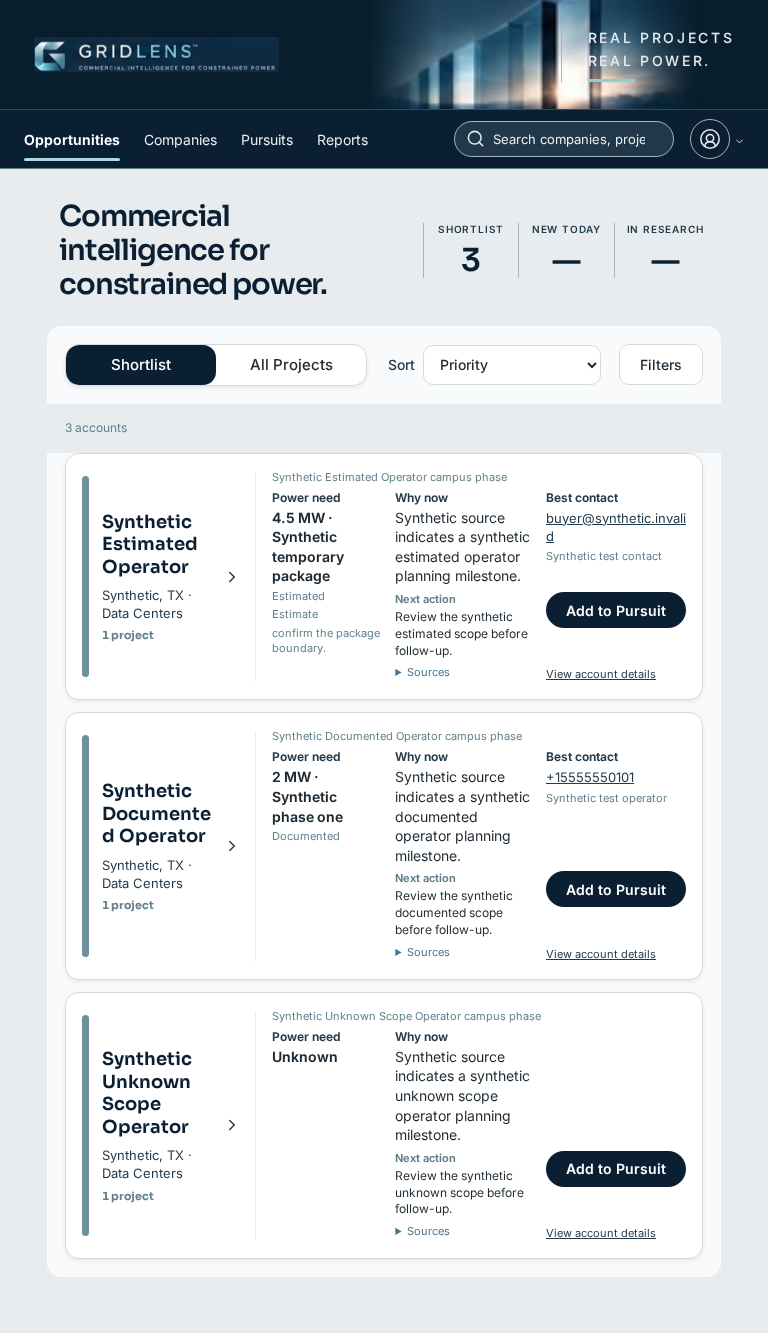
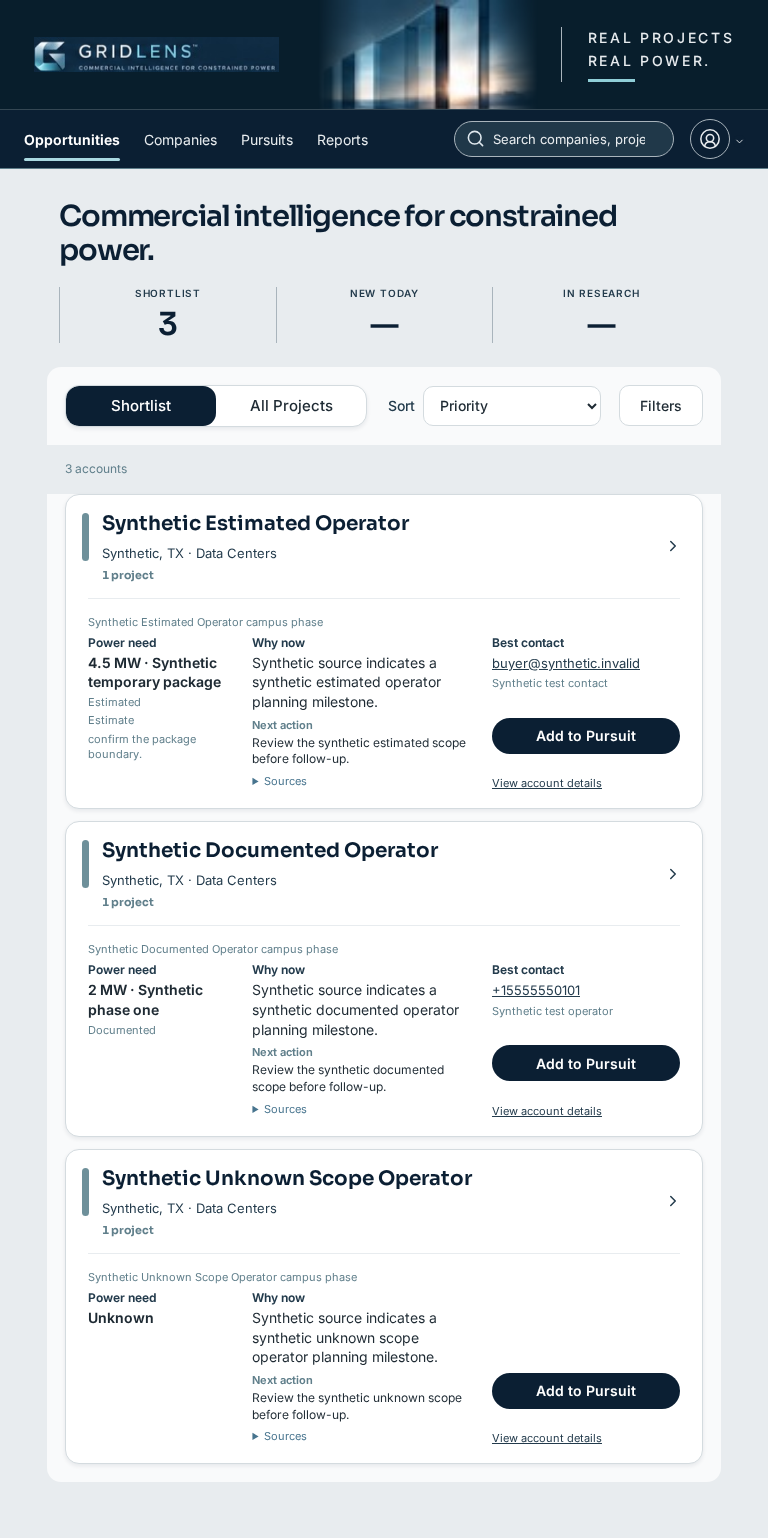
Close reviewed search and timing issues and refine tablet accessibility

diff --git a/web/src/features/workspace/ProjectResults.tsx b/web/src/features/workspace/ProjectResults.tsx
@@ -353,7 +353,7 @@ export function ProjectResults({ selectedNeedId, accountContextStatus = 'valid',
         <span className="customer-group-count">{displayedGroup.project_count} {displayedGroup.project_count === 1 ? 'project' : 'projects'}</span>
         <svg className="customer-group-chevron" viewBox="0 0 24 24" fill="none" aria-hidden="true"><path d="m9 18 6-6-6-6" stroke="currentColor" strokeWidth="2" strokeLinecap="round" strokeLinejoin="round"/></svg>
       </button></h2>
-      {displayedGroup.featured_project && <div className="customer-group-featured premium-account-detail"><p className="premium-featured-project">{displayedGroup.featured_project.name}</p>{displayedGroup.featured_project.commercial_brief ? <CommercialBriefSummary project={displayedGroup.featured_project}/> : <>{(!displayedGroup.featured_project.power_summary || ['supported_gap', 'unknown'].includes(displayedGroup.featured_project.power_summary_kind ?? 'unknown')) && <div className="customer-brief-claim premium-power"><strong>Power need</strong><p>Unknown</p></div>}{displayedGroup.featured_project.power_summary && displayedGroup.featured_project.power_summary_kind !== 'supported_gap' && displayedGroup.featured_project.power_summary_kind !== 'unknown' && <div className="customer-brief-claim premium-power"><strong>Power need</strong><p>{displayedGroup.featured_project.power_summary}</p>{displayedGroup.featured_project.power_amount_class && displayedGroup.featured_project.power_amount_class !== 'unknown' && <small>{humanizeBriefStatus(displayedGroup.featured_project.power_amount_class)}</small>}</div>}{displayedGroup.featured_project.event && /energiz|commission|in.?service/i.test(`${displayedGroup.featured_project.event.kind} ${displayedGroup.featured_project.event.label}`) && <div className="customer-brief-claim premium-energization"><strong>Energization</strong><p>{displayedGroup.featured_project.event.label}{displayedGroup.featured_project.event.date ? ` · ${displayedGroup.featured_project.event.date}` : ''}</p></div>}{displayedGroup.featured_project.shortlist_assessment?.why_now && <div className="customer-brief-claim premium-why"><strong>Why now</strong><p>{displayedGroup.featured_project.shortlist_assessment.why_now}</p></div>}{displayedGroup.featured_project.shortlist_assessment?.next_step && <div className="customer-brief-claim premium-next-action"><strong>Next action</strong><p>{displayedGroup.featured_project.shortlist_assessment.next_step}</p></div>}<FeaturedContact project={displayedGroup.featured_project} contactProject={accountContactProject}/></>}{group.pursued_eligible_need_count != null && group.eligible_need_count != null && group.pursued_eligible_need_count > 0 && <small>{group.pursued_eligible_need_count === group.eligible_need_count ? `All ${group.eligible_need_count} opportunities in Pursuits` : `${group.pursued_eligible_need_count} of ${group.eligible_need_count} opportunities in Pursuits`}</small>}{group.eligible_need_count === 1 && displayedGroup.featured_project.representative_need_id && <AddToPursuit key={displayedGroup.featured_project.representative_need_id} needId={displayedGroup.featured_project.representative_need_id} deferLookup><span className="sr-only">for {displayedGroup.featured_project.name}</span></AddToPursuit>}{projectSpecificMatch(group, search) && <button type="button" onClick={() => openAccount(group.id, group.matched_project_id, group.matched_need_id)}>View account with matching opportunity</button>}<button type="button" onClick={() => openAccount(group.id, projectSpecificMatch(group, search) ? group.matched_project_id : null, projectSpecificMatch(group, search) ? group.matched_need_id : null)}>{(group.eligible_need_count ?? 0) > 1 ? `Choose opportunity` : `View account details`}</button></div>}
+      {displayedGroup.featured_project && <div className="customer-group-featured premium-account-detail"><p className="premium-featured-project">{displayedGroup.featured_project.name}</p>{displayedGroup.featured_project.commercial_brief ? <CommercialBriefSummary project={displayedGroup.featured_project}/> : <>{(!displayedGroup.featured_project.power_summary || ['supported_gap', 'unknown'].includes(displayedGroup.featured_project.power_summary_kind ?? 'unknown')) && <div className="customer-brief-claim premium-power"><strong>Power need</strong><p>Unknown</p></div>}{displayedGroup.featured_project.power_summary && displayedGroup.featured_project.power_summary_kind !== 'supported_gap' && displayedGroup.featured_project.power_summary_kind !== 'unknown' && <div className="customer-brief-claim premium-power"><strong>Power need</strong><p>{displayedGroup.featured_project.power_summary}</p>{displayedGroup.featured_project.power_amount_class && displayedGroup.featured_project.power_amount_class !== 'unknown' && <small>{humanizeBriefStatus(displayedGroup.featured_project.power_amount_class)}</small>}</div>}{displayedGroup.featured_project.event && isEnergizationEvent(displayedGroup.featured_project.event) && <div className="customer-brief-claim premium-energization"><strong>Energization</strong><p>{displayedGroup.featured_project.event.label}{displayedGroup.featured_project.event.date ? ` · ${displayedGroup.featured_project.event.date}` : ''}</p></div>}{displayedGroup.featured_project.shortlist_assessment?.why_now && <div className="customer-brief-claim premium-why"><strong>Why now</strong><p>{displayedGroup.featured_project.shortlist_assessment.why_now}</p></div>}{displayedGroup.featured_project.shortlist_assessment?.next_step && <div className="customer-brief-claim premium-next-action"><strong>Next action</strong><p>{displayedGroup.featured_project.shortlist_assessment.next_step}</p></div>}<FeaturedContact project={displayedGroup.featured_project} contactProject={accountContactProject}/></>}{group.pursued_eligible_need_count != null && group.eligible_need_count != null && group.pursued_eligible_need_count > 0 && <small>{group.pursued_eligible_need_count === group.eligible_need_count ? `All ${group.eligible_need_count} opportunities in Pursuits` : `${group.pursued_eligible_need_count} of ${group.eligible_need_count} opportunities in Pursuits`}</small>}{group.eligible_need_count === 1 && displayedGroup.featured_project.representative_need_id && <AddToPursuit key={displayedGroup.featured_project.representative_need_id} needId={displayedGroup.featured_project.representative_need_id} deferLookup><span className="sr-only">for {displayedGroup.featured_project.name}</span></AddToPursuit>}{projectSpecificMatch(group, search) && <button type="button" onClick={() => openAccount(group.id, group.matched_project_id, group.matched_need_id)}>View account with matching opportunity</button>}<button type="button" onClick={() => openAccount(group.id, projectSpecificMatch(group, search) ? group.matched_project_id : null, projectSpecificMatch(group, search) ? group.matched_need_id : null)}>{(group.eligible_need_count ?? 0) > 1 ? `Choose opportunity` : `View account details`}</button></div>}
       {canUseChildren && childPageCurrent && expanded[group.id] && <div className="customer-group-projects">
         {childNotices[group.id] && <p role="status" className="project-results-notice">{childNotices[group.id]}</p>}
         {childErrors[group.id] && <p role="alert">{childErrors[group.id]} <button type="button" onClick={() => loadGroupProjects(group, 0)}>Reload projects</button></p>}
@@ -423,7 +423,7 @@ function CommercialBriefSummary({ project }: { project: ProjectResult }) {
   return <div className="customer-commercial-brief">
     {!showPowerNeed && <div className="customer-brief-claim premium-power"><strong>Power need</strong><p>Unknown</p></div>}
     {showPowerNeed && <div className="customer-brief-claim premium-power"><strong>Power need</strong><p>{powerText}</p>{hasDocumentedAmount && <small>{humanizeBriefStatus(brief.power_need.amount_class)}</small>}{powerLimitations.map((limitation, index) => <small key={`${index}:${limitation}`}>{limitation}</small>)}</div>}
-    {project.event && /energiz|commission|in.?service/i.test(`${project.event.kind} ${project.event.label}`) && <div className="customer-brief-claim premium-energization"><strong>Energization</strong><p>{project.event.label}{project.event.date ? ` · ${project.event.date}` : ''}</p></div>}
+    {project.event && isEnergizationEvent(project.event) && <div className="customer-brief-claim premium-energization"><strong>Energization</strong><p>{project.event.label}{project.event.date ? ` · ${project.event.date}` : ''}</p></div>}
     <div className="customer-brief-claim premium-why"><strong>Why now</strong><p>{brief.why_now.text ?? 'Why now is not established from current evidence.'}</p></div>
     {best && <div className="customer-group-contact" role="group" aria-label="Best contact"><strong>Best contact</strong>{contactHref && <a href={contactHref} target={best.kind === 'contact' ? '_blank' : undefined} rel={best.kind === 'contact' ? 'noreferrer' : undefined} aria-label={`${best.kind === 'call' ? 'Call' : best.kind === 'email' ? 'Email' : 'Contact'} ${best.contact}`}>{best.kind === 'call' || best.kind === 'email' ? contactHref.replace(/^(?:tel:|mailto:)/i, '') : best.contact}</a>}<small>{best.contact}</small></div>}
     <div className="customer-brief-claim premium-next-action"><strong>Next action</strong><p>{brief.next_action.text}</p></div>
@@ -450,4 +450,10 @@ function briefPowerAmount(value: string, unit: string | null): string {
 
 function humanizeBriefStatus(value: string): string {
   return value.replaceAll('_', ' ').replace(/\b[a-z]/g, character => character.toUpperCase())
+}
+
+/** Only explicit lifecycle types establish energization; regulator names and permits do not. */
+function isEnergizationEvent(event: NonNullable<ProjectResult['event']>): boolean {
+  const kind = event.kind.trim().toLowerCase().replace(/[\s-]+/g, '_')
+  return ['energization', 'energization_planned', 'energization_expected', 'energized', 'commissioning', 'commissioning_planned', 'commissioning_expected', 'in_service', 'in_service_planned'].includes(kind)
 }

diff --git a/web/src/features/workspace/premium-opportunities.css b/web/src/features/workspace/premium-opportunities.css
@@ -21,7 +21,7 @@
 .premium-filters .premium-filter-search { grid-column:1/-1; }
 .premium-filters input,.premium-filters select { width:100%; min-height:40px; min-width:0; padding:8px; border:1px solid #A9B4BC; border-radius:6px; background:white; color:#233B4C; font:14px Inter,sans-serif; }
 .premium-export { min-height:40px; padding:8px; border:1px solid #A9B4BC; border-radius:6px; background:white; color:#233B4C; font:12px Inter,sans-serif; cursor:pointer; }
-.premium-opportunities .project-results-count { margin:-10px 18px 0; color:#607F8B; font-size:12px; }
+.premium-opportunities .project-results-count { margin:-10px 18px 0; color:#233B4C; font-size:12px; }
 .premium-account-list { display:grid; gap:12px; padding:0 18px 18px; margin-top:-8px; background:#ffffffb8; border-radius:0 0 14px 14px; }
 .premium-account-card { position:relative; display:grid; grid-template-columns:minmax(220px,26%) minmax(0,1fr); align-items:stretch; min-width:0; border:1px solid #d4dbdf; border-radius:14px; background:white; box-shadow:0 2px 4px #0B1F3314; }
 .premium-account-card::before { content:''; position:absolute; top:22px; bottom:22px; left:16px; width:7px; border-radius:5px; background:#6E909A; }
@@ -30,32 +30,32 @@
 .premium-account-card .customer-group-toggle>span:first-child { display:grid; gap:8px; min-width:0; }
 .premium-account-card .customer-group-name { font:650 20px/1.25 Sora,sans-serif; overflow-wrap:anywhere; }
 .premium-account-card .customer-group-toggle small { color:#233B4C; font:400 13px/1.4 Inter,sans-serif; }
-.premium-account-card .customer-group-count { grid-column:1; grid-row:2; justify-self:start; font-size:11px; color:#607F8B; }
+.premium-account-card .customer-group-count { grid-column:1; grid-row:2; justify-self:start; font-size:11px; color:#233B4C; }
 .premium-account-card .customer-group-chevron { grid-column:2; grid-row:1/span 2; }
 .premium-account-detail.customer-group-featured { display:grid; grid-template-columns:minmax(105px,.8fr) minmax(0,1.5fr) minmax(175px,1.2fr); align-content:center; align-items:start; gap:9px 20px; min-width:0; padding:18px 22px; border:0; font:13px Inter,sans-serif; }
-.premium-account-detail>.premium-featured-project { grid-column:1/-1; margin:0; color:#607F8B; font-size:11px; }
+.premium-account-detail>.premium-featured-project { grid-column:1/-1; margin:0; color:#233B4C; font-size:11px; }
 .premium-account-detail .customer-commercial-brief { display:contents; }
 .premium-account-detail .customer-brief-claim { display:grid; align-content:start; gap:3px; min-width:0; }
 .premium-account-detail .customer-brief-claim strong,.premium-account-detail .customer-group-contact>strong { color:#233B4C; font-size:12px; font-weight:650; }
 .premium-account-detail .customer-brief-claim p { grid-column:auto; margin:0; color:#1E2A33; font-size:14px; line-height:1.4; overflow-wrap:anywhere; }
-.premium-account-detail .customer-brief-claim small { color:#607F8B; font-size:11px; line-height:1.4; }
+.premium-account-detail .customer-brief-claim small { color:#233B4C; font-size:11px; line-height:1.4; }
 .premium-account-detail .premium-power { grid-column:1; grid-row:2; }
 .premium-account-detail .premium-power p { font-weight:650; }
 .premium-account-detail .premium-why { grid-column:2; grid-row:2; }
 .premium-account-detail .premium-next-action { grid-column:2; grid-row:3; }
-.premium-account-detail .premium-next-action strong { font-size:11px; color:#607F8B; }
+.premium-account-detail .premium-next-action strong { font-size:11px; color:#233B4C; }
 .premium-account-detail .premium-next-action p { font-size:12px; }
 .premium-account-detail .premium-energization { grid-column:1; grid-row:3; }
 .premium-account-detail .customer-group-contact { display:grid; grid-column:3; grid-row:2; align-content:start; gap:4px; min-width:0; font-size:13px; }
 .premium-account-detail .customer-group-contact a { color:#233B4C; overflow-wrap:anywhere; line-height:1.4; }
-.premium-account-detail .customer-group-contact small { color:#607F8B; font-size:11px; }
+.premium-account-detail .customer-group-contact small { color:#233B4C; font-size:11px; }
 .premium-account-detail .customer-brief-sources { grid-column:1; grid-row:4; font-size:11px; }
 .premium-account-detail .customer-brief-sources[open] { grid-column:1/-1; }
 .premium-account-detail .customer-brief-sources p { margin:6px 0; font-size:12px; }
 .premium-account-detail>.cod-actions { grid-column:3; grid-row:3; display:flex; flex-wrap:wrap; align-items:center; gap:4px; min-width:0; }
 .premium-account-detail>.cod-actions .cod-action-primary { display:block; width:100%; min-height:36px; padding:8px 14px; border:0; border-radius:20px; background:#0B1F33; color:white; font:600 14px Inter,sans-serif; text-align:center; }
 .premium-account-detail>button { grid-column:3; grid-row:4; justify-self:start; padding:2px 0; border:0; background:transparent; color:#233B4C; font-size:11px; text-decoration:underline; }
-.premium-account-detail>small { grid-column:3; color:#607F8B; font-size:11px; }
+.premium-account-detail>small { grid-column:3; color:#233B4C; font-size:11px; }
 .premium-account-card>.customer-group-projects { grid-column:1/-1; }
 .premium-opportunities :is(button,a,summary,select,input):focus-visible { outline:2px solid #607F8B; outline-offset:3px; }
 @media(max-width:1100px) {
@@ -122,4 +122,15 @@
 /* Retained project-detail pane reserves the taller masthead above its existing KPI row. */
 @media(min-width:1051px) {
   .canonical-workspace-main .cod-panel.cod-panel:has(.cod-overview-body) { height:calc(100dvh - 310px); max-height:calc(100dvh - 310px); }
+}
+@media(min-width:761px) and (max-width:1000px) {
+  .premium-opportunities-intro { flex-direction:column; align-items:stretch; gap:20px; }
+  .premium-opportunities-intro h1 { max-width:30ch; }
+  .premium-metrics { flex:initial; width:100%; }
+  .premium-account-card { grid-template-columns:minmax(0,1fr); }
+  .premium-account-card::before { top:18px; bottom:auto; height:48px; }
+  .premium-account-card .customer-group-heading { margin:0 22px; padding:16px 0; border-right:0; border-bottom:1px solid #E8ECEF; }
+  .premium-account-card .customer-group-toggle { padding:0 0 0 14px; }
+  .premium-account-card .customer-group-name { font-size:20px; }
+  .premium-account-detail.customer-group-featured { grid-template-columns:minmax(130px,.8fr) minmax(160px,1.2fr) minmax(160px,1fr); padding:16px 22px; }
 }

diff --git a/web/tests/premium_ui.spec.ts b/web/tests/premium_ui.spec.ts
@@ -7,7 +7,7 @@ import { mockDemandSummary } from './mock-demand-summary'
 const screenshotDir = resolve(dirname(fileURLToPath(import.meta.url)), '../../docs/validation/premium-ui-20261111')
 
 // Every response in this test is synthetic and visibly identified as such.
-async function installSyntheticApi(page: import('@playwright/test').Page) {
+async function installSyntheticApi(page: import('@playwright/test').Page, event: { kind: string; label: string; date: string } | null = null) {
   const searchQueries: string[] = []
   await mockDemandSummary(page)
   await page.route(url => new URL(url).pathname.startsWith('/api/'), route => {
@@ -43,7 +43,7 @@ async function installSyntheticApi(page: import('@playwright/test').Page) {
             customer_identity_id: `synthetic-company-${index}`, location: 'Synthetic, TX', sector: 'data_centers', asset_type: 'data_center', priority_score: null,
             representative_need_id: needId, need_count: 1,
             needs: [{ id: needId, project_id: projectId, name: `${name} campus phase`, activity: 'construction', tier: 'Prospect', commercial_brief: brief(kind, name) }],
-            eligible_need_ids: [needId], event: { kind: 'construction', label: 'Synthetic planned construction', date: '2026-12-01', source: 'https://example.invalid/synthetic' },
+            eligible_need_ids: [needId], event,
             contact: [], commercial_brief: brief(kind, name), power_summary: null, power_summary_kind: kind === 'unknown' ? 'unknown' : 'activity_requirement', next_action: null,
             shortlist_assessment: { eligible: true, reasons: [], evidence_refs: [], why_now: 'Synthetic fixture for browser acceptance.', next_step: 'Review synthetic source.' }, updated_at: null,
           },
@@ -117,6 +117,10 @@ test('premium shell holds its desktop and phone layout and keeps search and acco
   await page.getByRole('button', { name: 'Account menu' }).click()
   const accountOptions = page.getByRole('region', { name: 'Account options' }).or(page.locator('.workspace-account__menu'))
   await expect(accountOptions).toBeVisible()
+  await page.keyboard.press('Escape')
+  await expect(accountOptions).toBeHidden()
+  await expect(page.getByRole('button', { name: 'Account menu' })).toBeFocused()
+  await page.getByRole('button', { name: 'Account menu' }).click()
   await expect(accountOptions).toContainText('Build SHA')
   const sha = (await accountOptions.locator('dd').nth(2).innerText()).trim()
   expect(sha).toMatch(/^[0-9a-f]{40}$/i)
@@ -181,9 +185,47 @@ test('premium shell holds its desktop and phone layout and keeps search and acco
   await search.fill('synthetic')
   await expect.poll(() => searchQueries).toContain('synthetic')
   await expect(page.getByRole('region', { name: 'Search results' }).getByRole('button', { name: /Synthetic Estimated Operator/ })).toBeVisible()
+  await page.getByRole('button', { name: 'Close search' }).click()
+  await expect(search).toBeHidden()
+  await expect(page.getByRole('region', { name: 'Search results' })).toHaveCount(0)
+  await page.getByRole('button', { name: 'Open search' }).click()
+  await expect(search).toBeFocused()
+  await expect(page.getByRole('region', { name: 'Search results' })).toBeVisible()
   await page.keyboard.press('Escape')
   await expect(page.getByRole('button', { name: 'Open search' })).toBeFocused()
   await expect(search).toBeHidden()
   expect(await page.evaluate(() => document.documentElement.scrollWidth <= window.innerWidth)).toBeTruthy()
   expect(await header.evaluate(el => el.getBoundingClientRect().width <= window.innerWidth)).toBeTruthy()
+})
+
+for (const event of [
+  { kind: 'commissioning_planned', label: 'Commissioning expected', date: '2027-06-01', supported: true },
+  { kind: 'decommissioning', label: 'Site decommissioning scheduled', date: '2027-06-01', supported: false },
+  { kind: 'permit_issued', label: 'Railroad Commission permit issued', date: '2027-06-01', supported: false },
+  { kind: 'planning', label: 'Application mentions energization and commissioning', date: '2027-06-01', supported: false },
+]) {
+  test(`energization requires a supported lifecycle type: ${event.kind}`, async ({ page }) => {
+    await installSyntheticApi(page, event)
+    await page.goto('/?view=workspace&groupBrowse=1')
+    await expect(page.locator('.premium-account-card')).toHaveCount(3)
+    const timing = page.locator('.premium-account-card').first().locator('.premium-energization')
+    if (event.supported) {
+      await expect(timing).toContainText('Commissioning expected')
+      await expect(timing).toContainText('2027-06-01')
+    } else await expect(timing).toHaveCount(0)
+  })
+}
+
+test('account actions remain reachable in a short landscape viewport', async ({ page }) => {
+  await installSyntheticApi(page)
+  await page.setViewportSize({ width: 844, height: 390 })
+  await page.goto('/?view=workspace&groupBrowse=1')
+  await page.getByRole('button', { name: 'Account menu' }).click()
+  const menu = page.locator('.workspace-account__menu')
+  const signOut = menu.getByRole('button', { name: 'Sign out', exact: true })
+  await signOut.scrollIntoViewIfNeeded()
+  const bounds = await signOut.boundingBox()
+  expect(bounds).not.toBeNull()
+  expect(bounds!.y).toBeGreaterThanOrEqual(0)
+  expect(bounds!.y + bounds!.height).toBeLessThanOrEqual(390)
 })

diff --git a/web/src/components/workspace-account.css b/web/src/components/workspace-account.css
@@ -1,22 +1,22 @@
 .workspace-account { position: relative; display: inline-flex; }
 .workspace-account__trigger { position: relative; display: grid; place-items: center; width: 36px; height: 36px; padding: 0; border: 1px solid #a9b4bc; border-radius: 50%; color: #233b4c; background: #fff; cursor: pointer; }
-.workspace-account__chevron { position: absolute; right: -5px; bottom: -2px; padding: 1px; border-radius: 50%; color: #607f8b; background: #fff; }
+.workspace-account__chevron { position: absolute; right: -5px; bottom: -2px; padding: 1px; border-radius: 50%; color: #233b4c; background: #fff; }
 .workspace-account__trigger:hover, .workspace-account__trigger:focus-visible { background: #e8ecef; outline: 2px solid #6e909a; outline-offset: 2px; }
 .workspace-account__menu { position: absolute; z-index: 40; top: calc(100% + 8px); right: 0; width: 248px; padding: 7px; border: 1px solid #a9b4bc; border-radius: 9px; background: white; box-shadow: 0 10px 30px #0b1f3324; }
-.workspace-account__identity { padding: 9px 10px; color: #607f8b; font-size: 12px; }
+.workspace-account__identity { padding: 9px 10px; color: #233b4c; font-size: 12px; }
 .workspace-account__menu > button { display: block; width: 100%; padding: 9px 10px; border: 0; border-radius: 5px; color: #1e2a33; text-align: left; background: transparent; cursor: pointer; font: inherit; font-size: 13px; }
 .workspace-account__menu > button:hover, .workspace-account__menu > button:focus-visible { background: #e8ecef; outline: none; }
 .workspace-account__menu > .workspace-account__signout { color: #9f2727; }
 .workspace-account__separator { height: 1px; margin: 5px 3px; background: #e8ecef; }
-.workspace-account__build { margin: 6px 9px; color: #607f8b; font-size: 11px; }
+.workspace-account__build { margin: 6px 9px; color: #233b4c; font-size: 11px; }
 .workspace-account__build div { display: flex; justify-content: space-between; gap: 8px; padding: 2px 0; }
 .workspace-account__build dt { font-weight: 500; }
 .workspace-account__build dd { margin: 0; text-align: right; overflow-wrap: anywhere; }
 .workspace-account__dialog { position: fixed; inset: 0; width: min(440px, calc(100% - 40px)); max-width: 440px; margin: auto; padding: 24px; border: 0; border-radius: 12px; color: #1e2a33; background: white; box-shadow: 0 20px 60px #0b1f3340; }
 .workspace-account__dialog::backdrop { background: #0b1f3366; }
 .workspace-account__dialog h2 { margin: 0 36px 12px 0; font-size: 19px; }
-.workspace-account__dialog p { margin: 0; color: #607f8b; font-size: 14px; line-height: 1.55; }
-.workspace-account__close { position: absolute; top: 12px; right: 12px; width: 32px; height: 32px; border: 0; border-radius: 6px; color: #607f8b; background: transparent; cursor: pointer; font-size: 24px; }
+.workspace-account__dialog p { margin: 0; color: #233b4c; font-size: 14px; line-height: 1.55; }
+.workspace-account__close { position: absolute; top: 12px; right: 12px; width: 32px; height: 32px; border: 0; border-radius: 6px; color: #233b4c; background: transparent; cursor: pointer; font-size: 24px; }
 .workspace-account__preference { display: flex; align-items: center; gap: 9px; margin: 18px 0 12px; font-size: 14px; }
 .workspace-account__preference input { width: 16px; height: 16px; }
 @media (prefers-reduced-motion: reduce) { .workspace-account *, .workspace-account *::before, .workspace-account *::after { scroll-behavior: auto !important; animation-duration: .01ms !important; animation-iteration-count: 1 !important; transition-duration: .01ms !important; } }
@@ -27,3 +27,5 @@
 .workspace-account__dialog h2 { font-family: Sora, sans-serif; }
 .gl3-reduce-motion *, .gl3-reduce-motion *::before, .gl3-reduce-motion *::after { scroll-behavior: auto !important; animation-duration: .01ms !important; animation-iteration-count: 1 !important; transition-duration: .01ms !important; }
 @media(max-width:760px) { .workspace-account__trigger, .workspace-account__close { min-width:44px; min-height:44px; } .canonical-header .workspace-account__trigger { width:44px; height:44px; } .canonical-header .workspace-account { margin-right:8px; } .canonical-header .workspace-account__chevron { right:-12px; bottom:12px; } }
+.workspace-account__menu { max-height:calc(100dvh - 176px); overflow-y:auto; overscroll-behavior:contain; }
+@media(max-width:760px) { .workspace-account__menu { max-height:calc(100dvh - 82px); } }

diff --git a/web/tests/workspace.spec.ts b/web/tests/workspace.spec.ts
@@ -367,7 +367,33 @@ test('mobile selected detail keeps the compact header and clear return', async (
   await expect(action).toBeInViewport()
   await expect(action.getByRole('button', { name: 'Add to Pursuit' })).toBeVisible()
   await expect(page.locator('.canonical-header .global-search label > span')).toBeHidden()
-  expect(await page.locator('.canonical-header__brand').evaluate(node => getComputedStyle(node).width)).toBe('143px')
+  const header = page.locator('.canonical-header')
+  const brand = page.locator('.canonical-header__brand')
+  const brandArt = page.locator('.canonical-header__brand-art')
+  const headerBounds = await header.boundingBox()
+  const brandBounds = await brand.boundingBox()
+  const logo = await brandArt.evaluate(node => {
+    const image = node as HTMLImageElement
+    const bounds = image.getBoundingClientRect()
+    return { x: bounds.x, y: bounds.y, width: bounds.width, height: bounds.height,
+      naturalWidth: image.naturalWidth, naturalHeight: image.naturalHeight,
+      objectFit: getComputedStyle(image).objectFit }
+  })
+  expect(headerBounds).not.toBeNull()
+  expect(brandBounds).not.toBeNull()
+  expect(brandBounds!.width).toBeGreaterThan(143)
+  expect(brandBounds!.x).toBeGreaterThanOrEqual(headerBounds!.x)
+  expect(brandBounds!.x + brandBounds!.width).toBeLessThanOrEqual(Math.min(headerBounds!.x + headerBounds!.width, 390))
+  expect(brandBounds!.y).toBeGreaterThanOrEqual(headerBounds!.y)
+  expect(brandBounds!.y + brandBounds!.height).toBeLessThanOrEqual(headerBounds!.y + headerBounds!.height)
+  expect(logo.width).toBeGreaterThan(143)
+  expect(logo.x).toBeGreaterThanOrEqual(headerBounds!.x)
+  expect(logo.x + logo.width).toBeLessThanOrEqual(Math.min(headerBounds!.x + headerBounds!.width, 390))
+  expect(logo.y).toBeGreaterThanOrEqual(headerBounds!.y)
+  expect(logo.y + logo.height).toBeLessThanOrEqual(headerBounds!.y + headerBounds!.height)
+  expect(logo.objectFit).toBe('contain')
+  expect(logo.naturalWidth).toBeGreaterThan(0)
+  expect(Math.abs(logo.width / logo.height - logo.naturalWidth / logo.naturalHeight)).toBeLessThan(0.01)
   await expect(page.getByRole('button', { name: '← Opportunities' })).toBeVisible()
 })
 

diff --git a/web/tests/companies.spec.ts b/web/tests/companies.spec.ts
@@ -134,7 +134,7 @@ test('directory and company view fit 390px without horizontal overflow', async (
   await page.goto('/?view=workspace&panel=companies')
   const brand = page.locator('.canonical-header__brand')
   await expect(brand).toHaveAttribute('aria-label', 'GridLens — Commercial Intelligence for Constrained Power')
-  expect(await page.locator('.canonical-header__brand-art').evaluate(element => getComputedStyle(element).height)).toBe('15px')
+  expect(await page.locator('.canonical-header__brand-art').evaluate(element => { const image = element as HTMLImageElement; return Math.abs(image.width / image.height - image.naturalWidth / image.naturalHeight) })).toBeLessThan(0.05)
   await page.screenshot({ path: test.info().outputPath('mobile-header.png'), fullPage: true })
   await expect(page.getByRole('button', { name: 'Open Northstar Energy' })).toBeVisible()
   expect(await page.evaluate(() => document.documentElement.scrollWidth <= window.innerWidth)).toBeTruthy()
@@ -142,7 +142,7 @@ test('directory and company view fit 390px without horizontal overflow', async (
   await expect(page.getByRole('heading', { name: 'Northstar Energy', exact: true })).toBeVisible()
   expect(await page.evaluate(() => document.documentElement.scrollWidth <= window.innerWidth)).toBeTruthy()
   await page.setViewportSize({ width: 1440, height: 900 })
-  expect(await page.locator('.canonical-header__brand-art').evaluate(element => getComputedStyle(element).height)).toBe('30px')
+  expect(await page.locator('.canonical-header__brand-art').evaluate(element => { const image = element as HTMLImageElement; return Math.abs(image.width / image.height - image.naturalWidth / image.naturalHeight) })).toBeLessThan(0.05)
   expect(await page.evaluate(() => document.documentElement.scrollWidth <= window.innerWidth)).toBeTruthy()
   await page.screenshot({ path: test.info().outputPath('desktop-header.png'), fullPage: true })
 })

diff --git a/web/src/features/workspace/GlobalSearch.tsx b/web/src/features/workspace/GlobalSearch.tsx
@@ -51,7 +51,7 @@ export function GlobalSearch({ onNeed, onCompany }: { onNeed: (needId: string) =
   const groups: [string, SearchHit[]][] = [['Projects', projects], ['Companies', companies], ['Contacts', contacts], ['Opportunity intelligence', opportunities]]
 
   return <div className={`global-search ${mobileOpen ? 'is-mobile-open' : ''}`} ref={searchRef} onKeyDown={event => { if (event.key === 'Escape') { setOpen(false); setMobileOpen(false); searchRef.current?.querySelector<HTMLButtonElement>('.global-search__toggle')?.focus() } }}>
-    <button type="button" className="global-search__toggle" aria-label={mobileOpen ? 'Close search' : 'Open search'} aria-expanded={mobileOpen} onClick={() => { setMobileOpen(value => !value); setOpen(true); window.setTimeout(() => inputRef.current?.focus(), 0) }}>{mobileOpen ? <X aria-hidden="true"/> : <Search aria-hidden="true"/>}</button>
+    <button type="button" className="global-search__toggle" aria-label={mobileOpen ? 'Close search' : 'Open search'} aria-expanded={mobileOpen} onClick={() => { if (mobileOpen) { setMobileOpen(false); setOpen(false) } else { setMobileOpen(true); setOpen(true); window.setTimeout(() => inputRef.current?.focus(), 0) } }}>{mobileOpen ? <X aria-hidden="true"/> : <Search aria-hidden="true"/>}</button>
     <label><Search className="global-search__icon" aria-hidden="true"/><span aria-hidden="true">Search</span><input ref={inputRef} type="search" aria-label="Search companies, projects, contacts and opportunities" placeholder="Search companies, projects or locations…" value={query} onFocus={() => setOpen(true)} onChange={event => { setQuery(event.target.value); setOpen(true) }}/></label>
     {open && query.trim().length >= 2 && <section className="global-search-results" aria-label="Search results" aria-live="polite">
       {loading && <p role="status">Searching current intelligence…</p>}{error && <p role="alert">{error}</p>}

diff --git a/web/tests/project_results.spec.ts b/web/tests/project_results.spec.ts
@@ -1293,13 +1293,17 @@ test('cached browse context expires at the backend valid-until boundary', async 
 })
 
 test('mounted account project details and contacts disappear at their independent generation expiry', async ({ page }) => {
-  await page.clock.install({ time: new Date('2026-10-29T12:00:00Z') })
+  await page.clock.install({ time: new Date('2026-10-29T11:59:00Z') })
+  let pauseClock: Promise<void> | undefined
   let openReads = 0
   let freshGeneration = false
   await page.route('**/api/auth/session', route => route.fulfill({ json: { authenticated: true } }))
   await mockDemandSummary(page)
   await page.route('**/api/opportunities/groups?*', route => route.fulfill({ json: { ...groupPage, as_of: '2026-10-29T11:59:00Z', valid_until: '2026-10-29T12:00:20Z', qualification_state: 'current', refresh_state: 'current' } }))
-  await page.route('**/api/opportunities/groups/group-synthetic-1/open?*', route => {
+  await page.route('**/api/opportunities/groups/group-synthetic-1/open?*', async route => {
+    // Hold the browser clock at the exact snapshot start while the initial
+    // account projection and its contact are observed, then cross expiry below.
+    await (pauseClock ??= page.clock.pauseAt(new Date('2026-10-29T12:00:00Z')))
     openReads += 1
     const validUntil = freshGeneration ? '2026-10-29T12:00:20Z' : '2026-10-29T12:00:02Z'
     const name = freshGeneration ? 'Current buyer' : 'Expired buyer'

diff --git a/web/src/components/WorkspaceAccount.tsx b/web/src/components/WorkspaceAccount.tsx
@@ -35,8 +35,10 @@ export function WorkspaceAccount({ onResearch, onSignals, onDiagnostics, onSignO
   useEffect(() => {
     if (!open) return
     const dismiss = (event: PointerEvent) => { if (!menu.current?.contains(event.target as Node)) setOpen(false) }
+    const escape = (event: KeyboardEvent) => { if (event.key === 'Escape') { setOpen(false); trigger.current?.focus() } }
     document.addEventListener('pointerdown', dismiss)
-    return () => { document.removeEventListener('pointerdown', dismiss) }
+    document.addEventListener('keydown', escape)
+    return () => { document.removeEventListener('pointerdown', dismiss); document.removeEventListener('keydown', escape) }
   }, [open])
 
   useEffect(() => {

diff --git a/web/src/components/canonical-header.css b/web/src/components/canonical-header.css
@@ -68,3 +68,6 @@
   .canonical-header.canonical-header .global-search-results { position: fixed; top: 144px; left: 12px; right: 12px; width: auto; max-height: calc(100dvh - 164px); }
 }
 @media (max-width: 375px) { .canonical-header__brand { width: 184px; } .canonical-header__tools { gap: 3px; padding-right: 10px; } .canonical-header__nav { gap: 8px; padding-inline: 12px; } .canonical-header__nav button { font-size: 12px; } }
+@media(min-width:761px) and (max-width:1100px) {
+  .canonical-header__architecture { left:auto; right:230px; width:220px; }
+}

diff --git a/docs/validation/premium-ui-20261111/README.md b/docs/validation/premium-ui-20261111/README.md
@@ -15,6 +15,7 @@ All screenshot data is **synthetic acceptance data**, visibly labeled Synthetic,
 - [Desktop 1280×800](desktop-1280x800.png)
 - [Tablet 768×1024](desktop-768x1024.png)
 - [iPhone 390×844](mobile-390x844.png)
+- [Full phone page, including contacts and sources](mobile-full.png)
 
 Direct visual inspection against the attached owner reference checked the two header levels, contained original logo, architectural center artwork, right-hand statement, active underline, introduction/metrics alignment, segmented toolbar and compact company/power/Why now/contact/action grouping. Sora follows the explicit brand instruction despite the reference headline's serif appearance. Cards expand for substantive scope/uncertainty text instead of truncating material qualifications. On phones the first Pursuit action is inside the initial 844px viewport; contact routes and secondary context remain below. The retained raster artwork is only 145×53, so the enlarged center is visibly softer than a high-resolution reference; no replacement artwork was invented.
 
@@ -39,3 +40,9 @@ Observed before final source freeze:
 - Retained project detail acceptance: 14 passed, including action bounds at 1648/1440/1280/390 widths and overflow/footer checks.
 
 The initial broad browser run was interrupted after 99 passes and obsolete selector failures. An intermediate broad run overlapped an isolated run sharing Playwright's output folder, causing artifact ENOENT failures; isolated runs now use separate output paths. The first real-backend rollup attempt exceeded its 15-second initial navigation budget during concurrent cold builds; its failure is retained separately. These are not claimed as successful final acceptance.
+
+## Independent review repair
+
+Independent Astra reviewed `9544d4762a1b3906d5360978d449bd8147b9d4c6` and withheld approval for two concrete issues: populated mobile search results could remain open after the close toggle, and an unbounded energization substring test could mislabel decommissioning or regulatory commission events. The repair closes both search state flags and restricts timing to explicit normalized lifecycle kinds. New browser cases cover close/reopen/Escape, a genuine commissioning positive and decommissioning/regulatory-permit/free-text negatives. The account disclosure also gains Escape/focus restoration and bounded short-screen scrolling; tablet cards avoid word fragmentation and artwork no longer overlaps the statement. This is a repair record, not a final approval claim.
+
+The isolated real-backend rollup lane subsequently passed all three viewport journeys (1440, 768 and 390 pixels) against 2,098 synthetic persisted rows, with providers disabled. This demonstrates actual API/account/pagination behavior using fixtures; it does not prove production freshness or research coverage.
